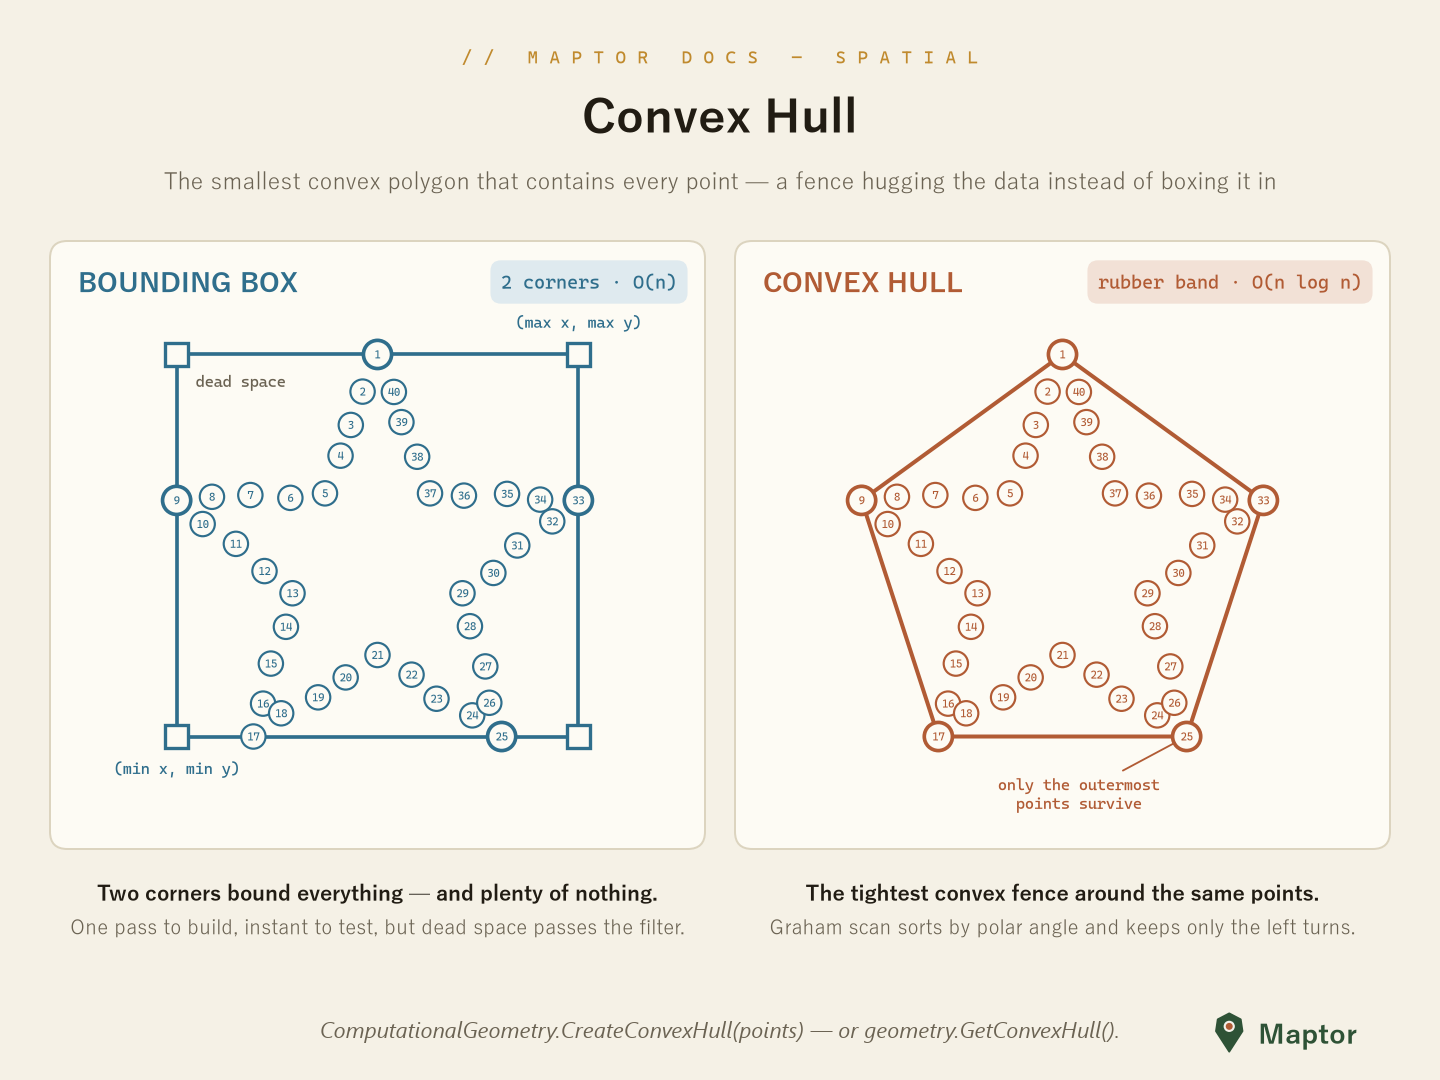
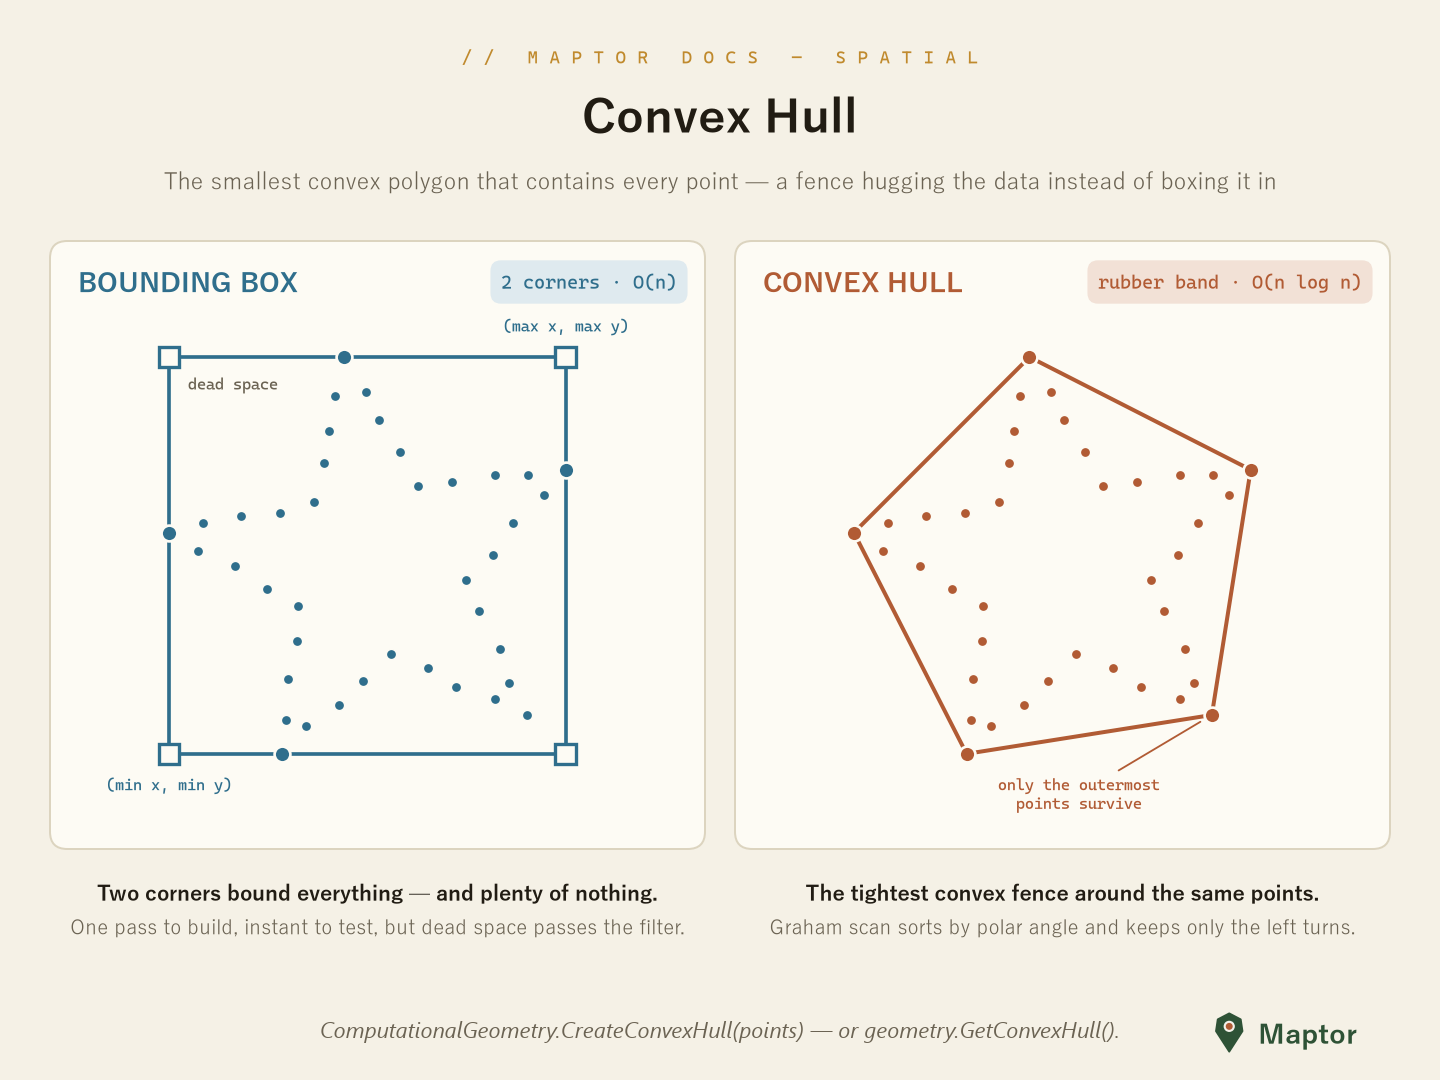
docs: fix readme image sizes

Changed region(s): [[0.0625, 0.275, 0.4375, 0.7333], [0.5938, 0.3056, 0.9062, 0.7028]]

diff --git a/src/IRI.Maptor.Sta/IRI.Maptor.Sta.SpatialReferenceSystem/MapProjections/README.md b/src/IRI.Maptor.Sta/IRI.Maptor.Sta.SpatialReferenceSystem/MapProjections/README.md
@@ -14,7 +14,7 @@ The heavy math lives in the static [`MapProjects`](../MapProjects.cs) class — 
 ## What is a map projection?
 
 <p align="center">
-  <img src="../images/map-projections.png" alt="What is a map projection" width="600">
+  <img src="../images/map-projections.png" alt="What is a map projection" width="800">
 </p>
 
 A sphere (or ellipsoid) cannot be flattened onto paper without distortion. Every projection therefore makes two choices:
@@ -54,7 +54,7 @@ Pick the property your map needs — that picks your projection: navigation and 
 ## Mercator
 
 <p align="center">
-  <img src="../images/mercator.png" alt="Mercator" width="600">
+  <img src="../images/mercator.png" alt="Mercator" width="800">
 </p>
 
 The conformal cylindrical projection (Gerardus Mercator, 1569). Meridians stay equally spaced while parallels spread apart as `y = a·ln tan(45° + φ/2)`, exactly matching the E–W stretch — so angles survive everywhere. Its killer feature: a **rhumb line** (a course of constant compass bearing) maps to a straight line, which made it *the* navigation chart for four centuries. The price: scale inflates by 1/cos(φ) and the poles sit at infinity.
@@ -71,7 +71,7 @@ var geo = mercator.ToGeodetic(xy);
 ## UTM — Universal Transverse Mercator
 
 <p align="center">
-  <img src="../images/utm.png" alt="UTM" width="600">
+  <img src="../images/utm.png" alt="UTM" width="800">
 </p>
 
 UTM slices the world into **60 zones of longitude, six degrees each** (`zone = floor(lon / 6) + 31`). Each zone gets its own Transverse Mercator projection centered on the zone's **central meridian**, scaled by **k₀ = 0.9996** so scale error balances across the zone, with a **false easting of 500 000 m** so every easting stays positive. The result: flat, metric coordinates with tiny distortion anywhere inside the zone.
@@ -97,7 +97,7 @@ Related helpers in `MapProjects`: `FindUtmZone(longitude)`, `CalculateCentralMer
 ## Web Mercator (EPSG:3857)
 
 <p align="center">
-  <img src="../images/web-mercator.png" alt="Web Mercator" width="600">
+  <img src="../images/web-mercator.png" alt="Web Mercator" width="800">
 </p>
 
 Web Mercator is the projection behind virtually all web tile maps (Google, OSM, Bing, …). It applies the **spherical** Mercator formulas to WGS84 geodetic coordinates ("auxiliary sphere") and **truncates the map at ±85.0511°** — precisely the latitude where the Mercator y equals π·a — so the whole world becomes a **square**.
@@ -121,7 +121,7 @@ var xy2 = MapProjects.GeodeticWgs84ToWebMercator(new Point(51.389, 35.689));
 ## Lambert Conformal Conic
 
 <p align="center">
-  <img src="../images/lambert-conformal-conic.png" alt="Lambert Conformal Conic" width="600">
+  <img src="../images/lambert-conformal-conic.png" alt="Lambert Conformal Conic" width="800">
 </p>
 
 Project onto a **cone** that cuts the globe at one or two **standard parallels**, then slit the cone and unroll it: parallels become concentric arcs, meridians straight lines converging on the apex. Scale is true (k = 1) on the standard parallels and grows away from them, so choosing φ₁ and φ₂ to bracket your region keeps distortion small — the classic conformal choice for **mid-latitude, east–west extents** (US state plane zones, and Iran's NIOC grid on the Clarke 1880 RGS datum).
@@ -146,7 +146,7 @@ var geo = lcc.ToGeodetic(xy);
 ## Cylindrical Equal-Area
 
 <p align="center">
-  <img src="../images/cylindrical-equal-area.png" alt="Cylindrical Equal-Area" width="600">
+  <img src="../images/cylindrical-equal-area.png" alt="Cylindrical Equal-Area" width="800">
 </p>
 
 Project each point **horizontally** out to the wrapping cylinder: `y = a·sin φ`. By Archimedes' hat-box theorem a sphere and its wrapping cylinder have equal area, so this preserves **areas exactly** — the anti-Mercator. Parallels compress toward the poles instead of spreading; shapes pay the price, stretching E–W and squashing N–S at high latitudes (a Tissot circle at 60° becomes twice as wide and half as tall — same area). Use it when areas must be honest: density, land-cover, and statistical maps.

diff --git a/src/IRI.Maptor.Sta/IRI.Maptor.Sta.Spatial/Analysis/README.md b/src/IRI.Maptor.Sta/IRI.Maptor.Sta.Spatial/Analysis/README.md
@@ -7,7 +7,7 @@ The algorithm toolbox of `IRI.Maptor.Sta.Spatial`: triangulation and Voronoi dia
 `DelaunayTriangulation` is a Bowyer–Watson incremental insertion. Triangles come back as CCW vertex indices with per-edge neighbour links (`-1` on the convex hull), and the dual Voronoi diagram comes for free: every triangle's circumcenter is a Voronoi vertex, and hull cells stay open as infinite rays.
 
 <p align="center">
-  <img src="../images/voronoi-delaunay-duality.png" alt="Delaunay–Voronoi duality" width="600">
+  <img src="../images/voronoi-delaunay-duality.png" alt="Delaunay–Voronoi duality" width="800">
 </p>
 
 ```csharp
@@ -30,7 +30,7 @@ The convex hull is the smallest convex polygon that contains every point of a se
 `ComputationalGeometry.CreateConvexHull` is a Graham scan — sort by polar angle around the lowest point, keep only the left turns, O(n log n). It returns the hull vertices counter-clockwise; duplicates and collinear edge points are dropped.
 
 <p align="center">
-  <img src="../images/convex-hull.png" alt="Convex hull vs bounding box" width="600">
+  <img src="../images/convex-hull.png" alt="Convex hull vs bounding box" width="800">
 </p>
 
 ```csharp
@@ -76,7 +76,7 @@ var simplified = Simplifications.SimplifyByRamerDouglasPeucker(line.Points, para
 The `Topology/` enums (`PointPolygonRelation`, `LineLineRelation`, `PointCircleRelation`, …) name the answers; the predicates live in `TopologyUtility` (namespace `IRI.Maptor.Sta.Spatial.Helpers`). Point-in-polygon ships in both classic flavours:
 
 <p align="center">
-  <img src="../images/point-in-polygon.png" alt="Point in polygon: ray casting vs winding number" width="600">
+  <img src="../images/point-in-polygon.png" alt="Point in polygon: ray casting vs winding number" width="800">
 </p>
 
 ```csharp
@@ -94,7 +94,7 @@ Also here: segment–segment intersection (`LineSegmentsIntersects`), point–se
 Hilbert, Z-order (Morton) and other curve orderings that linearize 2-D data while keeping neighbours close — the backbone of `SFCRTree` bulk-loading and locality-preserving sorts. See the dedicated [SFC README](SFC/README.md).
 
 <p align="center">
-  <img src="../images/space-filling-curves.png" alt="Space-filling curves" width="600">
+  <img src="../images/space-filling-curves.png" alt="Space-filling curves" width="800">
 </p>
 
 ## Network

diff --git a/src/IRI.Maptor.Sta/IRI.Maptor.Sta.Graph/Search/README.md b/src/IRI.Maptor.Sta/IRI.Maptor.Sta.Graph/Search/README.md
@@ -7,7 +7,7 @@ Two traversal orders, two different superpowers: BFS finds shortest hop-count pa
 `BreadthFirstSearch<TNode, TWeight>` explores the graph **level by level** from a start node. A queue drives the frontier: nodes go white → gray when enqueued, gray → black when dequeued, and every node gets `level = parent's level + 1`. The tree the traversal leaves behind (`SearchResult`) is the shortest-path tree in edge count.
 
 <p align="center">
-  <img src="../images/bfs.png" alt="Breadth-First Search" width="600">
+  <img src="../images/bfs.png" alt="Breadth-First Search" width="800">
 </p>
 
 ```csharp
@@ -23,7 +23,7 @@ var tree     = bfs.SearchResult;      // the BFS tree as an AdjacencyList
 `DepthFirstSearch<TNode, TWeight>` goes **deep before wide**, stamping each node with a discovery and a finish time. The stamps nest like parentheses, and each non-tree edge gets classified — `Tree`, `Back`, `Forward` or `Cross`. One back edge is enough to prove a cycle; on a DAG, reading finish times backwards yields a topological sort.
 
 <p align="center">
-  <img src="../images/dfs.png" alt="Depth-First Search" width="600">
+  <img src="../images/dfs.png" alt="Depth-First Search" width="800">
 </p>
 
 ```csharp
@@ -41,7 +41,7 @@ var byTime  = dfs.GetSortedNodes(SortType.BasedOnFinishTime);
 A strongly connected component is a set of nodes that can **all reach each other**. Collapsing each SCC to a single point always leaves a cycle-free component graph (a DAG). The implementation is Kosaraju's algorithm — two DFS passes around a `Transpose()`:
 
 <p align="center">
-  <img src="../images/strongly-connected-components.png" alt="Strongly Connected Components" width="600">
+  <img src="../images/strongly-connected-components.png" alt="Strongly Connected Components" width="800">
 </p>
 
 ```csharp

diff --git a/src/IRI.Maptor.Sta/IRI.Maptor.Sta.Graph/ShortestPaths/README.md b/src/IRI.Maptor.Sta/IRI.Maptor.Sta.Graph/ShortestPaths/README.md
@@ -13,7 +13,7 @@ All three algorithms here share one primitive — **relaxation**: if going throu
 Greedy: always settle the unsettled node with the smallest tentative distance. That promise only holds when no edge can be negative. This implementation works on a `Matrix` adjacency and uses a linear min-scan over the unsettled set.
 
 <p align="center">
-  <img src="../images/dijkstra.png" alt="Dijkstra" width="600">
+  <img src="../images/dijkstra.png" alt="Dijkstra" width="800">
 </p>
 
 ```csharp
@@ -26,7 +26,7 @@ List<int> path = dijkstra.FindShortestPath(0, 4);      // node indexes
 No greed, just patience: relax **every** edge, `V−1` rounds (with an early exit when a round changes nothing). Negative weights are fine — and a V-th pass that still relaxes something proves a negative cycle.
 
 <p align="center">
-  <img src="../images/bellman-ford.png" alt="Bellman-Ford" width="600">
+  <img src="../images/bellman-ford.png" alt="Bellman-Ford" width="800">
 </p>
 
 ```csharp
@@ -49,7 +49,7 @@ A `Matrix`-based twin, `BellmanFordMatrixProblem(matrix, sourceNodeIndex)`, mirr
 All pairs at once, by dynamic programming: let nodes join the set of allowed stopovers one at a time and keep the cheaper of "direct" vs "via k" — `d[i,j] = min(d[i,j], d[i,k] + d[k,j])`. A negative value on the diagonal means a negative cycle (the constructor throws).
 
 <p align="center">
-  <img src="../images/floyd-warshall.png" alt="Floyd-Warshall" width="600">
+  <img src="../images/floyd-warshall.png" alt="Floyd-Warshall" width="800">
 </p>
 
 ```csharp

diff --git a/src/IRI.Maptor.Sta/IRI.Maptor.Sta.Graph/GraphRepresentation/README.md b/src/IRI.Maptor.Sta/IRI.Maptor.Sta.Graph/GraphRepresentation/README.md
@@ -7,7 +7,7 @@ How a graph is stored decides what is cheap and what is expensive. This library 
 `AdjacencyList<TNode, TWeight>` keeps **one linked list of outgoing edges per node** — internally a `SortedList<TNode, LinkedList<Connection<TNode, TWeight>>>`. Memory follows the edges that actually exist (`O(V + E)`), which makes it the right default for sparse graphs like road networks.
 
 <p align="center">
-  <img src="../images/adjacency-list.png" alt="Adjacency list" width="600">
+  <img src="../images/adjacency-list.png" alt="Adjacency list" width="800">
 </p>
 
 ```csharp
@@ -27,7 +27,7 @@ var reversed  = g.Transpose();         // every edge flipped — used by SCC
 The matrix form is a `V × V` weight table: row = source, column = target, `∞` for a missing edge. Any edge lookup is `O(1)`, at the price of `O(V²)` space — best for small or dense graphs.
 
 <p align="center">
-  <img src="../images/adjacency-matrix.png" alt="Adjacency matrix" width="600">
+  <img src="../images/adjacency-matrix.png" alt="Adjacency matrix" width="800">
 </p>
 
 The matrix-based solvers (`DijkstraProblem`, `BellmanFordMatrixProblem`, `FloydWarshallProblem`) consume this form directly, and `AdjacencyList` has a constructor that converts a matrix into a list:

diff --git a/src/IRI.Maptor.Sta/IRI.Maptor.Sta.SpatialReferenceSystem/Models/README.md b/src/IRI.Maptor.Sta/IRI.Maptor.Sta.SpatialReferenceSystem/Models/README.md
@@ -1,7 +1,7 @@
 # Ellipsoids and datums
 
 <p align="center">
-  <img src="../images/ellipsoid.png" alt="Reference ellipsoid" width="600">
+  <img src="../images/ellipsoid.png" alt="Reference ellipsoid" width="800">
 </p>
 
 A latitude/longitude pair means nothing on its own — it is always measured **on a chosen reference ellipsoid**: an ellipse of revolution that approximates the figure of the Earth. Two numbers pin the shape down: the **semi-major axis `a`** and the **flattening `f = (a − b) / a`** (usually given as `1/f`). Everything else — semi-minor axis `b`, first/second eccentricity `e²`, `e′²`, and the radii of curvature `N` (prime vertical) and `M` (meridian) — follows from them.
@@ -18,7 +18,7 @@ A latitude/longitude pair means nothing on its own — it is always measured **o
 ## Radii of curvature — M and N
 
 <p align="center">
-  <img src="../images/ellipsoid-curvature.png" alt="Radii of curvature" width="600">
+  <img src="../images/ellipsoid-curvature.png" alt="Radii of curvature" width="800">
 </p>
 
 Unlike a sphere, an ellipsoid curves by a different amount in every direction at a given point. Two **normal sections** bound the range, and together they carry almost all of the geodetic math:

diff --git a/src/IRI.Maptor.Sta/IRI.Maptor.Sta.Spatial/AdvancedStructures/README.md b/src/IRI.Maptor.Sta/IRI.Maptor.Sta.Spatial/AdvancedStructures/README.md
@@ -3,7 +3,7 @@
 Spatial indexes and point clustering: a spatial query shouldn't touch every feature — these structures carve space so lookups skip almost everything.
 
 <p align="center">
-  <img src="../images/kdtree-vs-rtree.png" alt="KdTree vs RTree" width="600">
+  <img src="../images/kdtree-vs-rtree.png" alt="KdTree vs RTree" width="800">
 </p>
 
 ## KdTree & BalancedKdTree
@@ -33,7 +33,7 @@ var withinToleranceRange = tree.FindNeighbours(new Point(51.4, 35.7), distance: 
 `SFCRTree` bulk-loads the same structure along a **space-filling curve**: leaves are packed in curve order, so map-neighbours stay disk-neighbours. Pick the ordering with a comparer — `SFCRTree.HilbertComparer`, `ZOrderingComparer`, `GrayComparer`, `PeanoComparer` and friends.
 
 <p align="center">
-  <img src="../images/space-filling-curves.png" alt="Space-filling curves preserve locality" width="600">
+  <img src="../images/space-filling-curves.png" alt="Space-filling curves preserve locality" width="800">
 </p>
 
 > Both R-tree flavours are early-stage implementations (marked untested in source) — the k-d trees are the battle-tested pair.

diff --git a/src/IRI.Maptor.Sta/IRI.Maptor.Sta.Spatial/IO/OgcSFA/README.md b/src/IRI.Maptor.Sta/IRI.Maptor.Sta.Spatial/IO/OgcSFA/README.md
@@ -15,7 +15,13 @@ OGC Simple Feature Access (ISO 19125) serialization for `Geometry<T>` — one ge
 | Z / M / ZM dimensions | Yes (WKT dimension suffixes) |
 
 <p align="center">
-  <img src="../../images/sfa-geometry-types.png" alt="Simple Feature geometry types" width="600">
+  <img src="../../images/sfa-geometry-types.png" alt="Simple Feature geometry types" width="800">
+</p>
+
+A polygon's rings carry two different meanings: an interior ring is a hole in the same polygon, while a second exterior ring is a separate part of a MultiPolygon.
+
+<p align="center">
+  <img src="../../images/sfa-polygon-hole-multipolygon.png" alt="Polygon with a hole vs MultiPolygon parts" width="800">
 </p>
 
 ## Usage
@@ -37,7 +43,7 @@ string wkt = geometry.AsWkt();   // "POINT Z (1 2 3)"
 The compact binary twin: one byte-order flag, a `uint32` geometry type, then raw `double` coordinates.
 
 <p align="center">
-  <img src="../../images/wkb-anatomy.png" alt="WKB anatomy of a point" width="600">
+  <img src="../../images/wkb-anatomy.png" alt="WKB anatomy of a point" width="800">
 </p>
 
 ```csharp

diff --git a/src/IRI.Maptor.Sta/IRI.Maptor.Sta.Graph/MinCut/README.md b/src/IRI.Maptor.Sta/IRI.Maptor.Sta.Graph/MinCut/README.md
@@ -5,7 +5,7 @@ A **cut** splits a graph's nodes into two groups; its size is the number of edge
 `MinimumCut` implements **Karger's randomized contraction**: repeatedly pick a random edge (weighted by degree), merge its endpoints into a supernode, drop the self-loops, and recurse until only two supernodes remain. The edges that survived between them are a cut — and because a min-cut edge is picked with low probability at every step, it *tends* to be the minimum one.
 
 <p align="center">
-  <img src="../images/min-cut.png" alt="Minimum Cut" width="600">
+  <img src="../images/min-cut.png" alt="Minimum Cut" width="800">
 </p>
 
 ```csharp

diff --git a/src/IRI.Maptor.Sta/IRI.Maptor.Sta.Spatial/IO/TopoJson/README.md b/src/IRI.Maptor.Sta/IRI.Maptor.Sta.Spatial/IO/TopoJson/README.md
@@ -18,7 +18,7 @@ Geometry types: `Point`, `MultiPoint`, `LineString`, `MultiLineString`, `Polygon
 Instead of storing each geometry's coordinates independently, TopoJSON stitches geometries together from shared arcs. Shared boundaries are stored once, which typically produces smaller files than the equivalent GeoJSON.
 
 <p align="center">
-  <img src="../../images/geojson-vs-topojson-arcs.png" alt="GeoJSON duplicates shared borders; TopoJSON stores each arc once" width="600">
+  <img src="../../images/geojson-vs-topojson-arcs.png" alt="GeoJSON duplicates shared borders; TopoJSON stores each arc once" width="800">
 </p>
 
 ## Usage

diff --git a/src/IRI.Maptor.Sta/IRI.Maptor.Sta.Ogc/SLD/README.md b/src/IRI.Maptor.Sta/IRI.Maptor.Sta.Ogc/SLD/README.md
@@ -3,7 +3,7 @@
 An SLD 1.0.0 document is an XML rule tree that tells any OGC server — or client — how to draw a layer: `StyledLayerDescriptor` → `NamedLayer` → `UserStyle` → `FeatureTypeStyle` → `Rule` → symbolizers. Rule conditions reuse the project's Filter Encoding model (`OgcFilter`, from [../FilterEncoding](../FilterEncoding)).
 
 <p align="center">
-  <img src="../images/sld.png" alt="SLD rule tree and rendered result" width="600">
+  <img src="../images/sld.png" alt="SLD rule tree and rendered result" width="800">
 </p>
 
 ## The object model

diff --git a/src/IRI.Maptor.Sta/IRI.Maptor.Sta.Ogc/WFS/README.md b/src/IRI.Maptor.Sta/IRI.Maptor.Sta.Ogc/WFS/README.md
@@ -3,7 +3,7 @@
 Where WMS returns a picture of the map, WFS returns the features themselves — GML geometries with their attributes, styled by the client. This folder is the **generated object model** for WFS 1.1.0 capabilities and requests (namespace `IRI.Maptor.Sta.Ogc.WFS.v110`); there is no HTTP client here — bring your own transport and deserialize the responses.
 
 <p align="center">
-  <img src="../images/wms-wfs.png" alt="WMS vs WFS" width="600">
+  <img src="../images/wms-wfs.png" alt="WMS vs WFS" width="800">
 </p>
 
 ## The capabilities model
